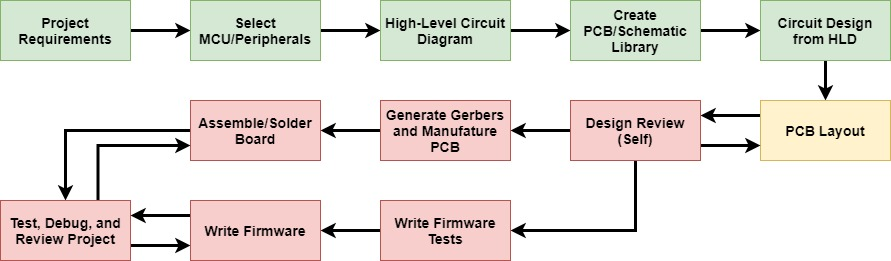
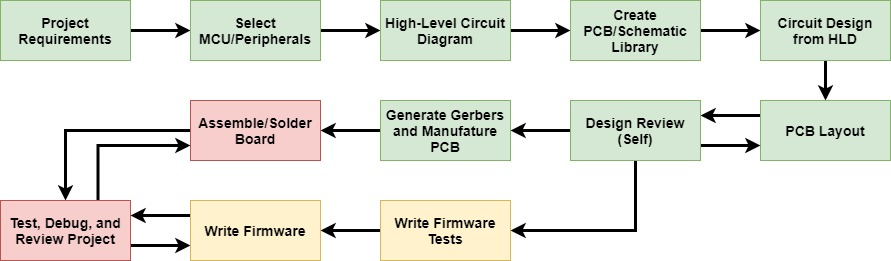
Update: Readme updated to pcb manufacturing stage.

diff --git a/README.md b/README.md
@@ -2,7 +2,7 @@
 
 # Requirements
 
-I require a hardware media controller which I can use to
+The hardware media controller should provide configurable buttons/macro-keys to be used in conjunction with media programs such as Spotify and VLC, and online streaming services such as Youtube and Netflix. As such it must account for standard Play/Pause, Next, and Previous functions as well as a volume control knob. A good-to-have feature is 'click' functionality in the volume knob, which can replace the need for separate media playback controls, freeing them up for other uses such as programmable macro-keys. At this stage it should be wired using USB-B micro.
 
 # Folder structure
 
@@ -10,17 +10,18 @@ I require a hardware media controller which I can use to
 **datasheets**: Datasheets for any components used in this project. Currently in progress.
 **firmware**: Any C/C++ code written for the ATMEGA32U2 used in this PCB.
 **pcb_design**: Altium project files.
+**pcb_manufacturing**: Altium-generated files for manufacturing.
 
 # Motivation
 
 This project is purely for educational purposes. It serves as a way for myself to learn how to use Altium Designer by making a relatively simple electronics project. I expect to have a comfortable grasp of the following skills once this is completed:
 
 - [x] Circuit Design (Basic)
-- [ ] Altium Designer
+- [x] Altium Designer
   - [x] Library Management
   - [x] Schematic Capture
-  - [ ] PCB Layout
-  - [ ] Gerber Generation
+  - [x] PCB Layout
+  - [x] Gerber Generation
 - [ ] Firmware
   - [ ] C/C++ for AVR processor
   - [ ] USB interface
@@ -34,16 +35,16 @@ This project is purely for educational purposes. It serves as a way for myself t
 
 ## Progress
 
-As I complete sections of this project, I will update this flowchart. This should give myself a clear task-list, as well as introducing a sense of accountability.
+As I complete sections of this project, I will update this flowchart. This should give me a clear task-list, as well as introducing a sense of accountability.
 
 ![MediaControllerProjectFlow](/assets/MediaControllerProjectFlow.jpeg)
 Improvement: Convert this to a mermaid diagram to reduce workload when updating progress.
 
 ## What I would do differently
 
+I used this project in conjunction with learning Altium from scratch. For this reason, I chose not to delve too deep into additional details such as the assembly, mechanical, and manufacturing drawings/notes. This will be the focus of future PCBs.</br>
+
 ### Schematic and Footprint Libraries
 
-Every component in this project has been added in individually. This was not a difficult task, however it took up a large portion of the schematic capture time. </br>
-In hindsight, I did not need to create separate footprints for passive components with identical package-sizes. </br>
-Community-sourced component libraries would also have sped up the process considerably. </br>
-Using UltraLibrarian and SnapEda provided me with footprints, as well as a large chunk of un-necessary dimensioning text.
+Every component in this project has been added in individually. This was not a difficult task, however it took up a large portion of the design-time. In future, I will improve my skills in creating components by sharing common footprints between components, e.g. 0603 capacitors of different values. </br>
+Community-sourced component libraries would also have sped up the process considerably. I connected the _celestial altium library_ database to experiment, and found it was useful for fast prototyping, INCLUDING supplier-linked parts. For future use, I will stick to generating the components myself so that I can improve my skills, however it is good to know that I can find most schematics/footprints a few clicks away. </br>
